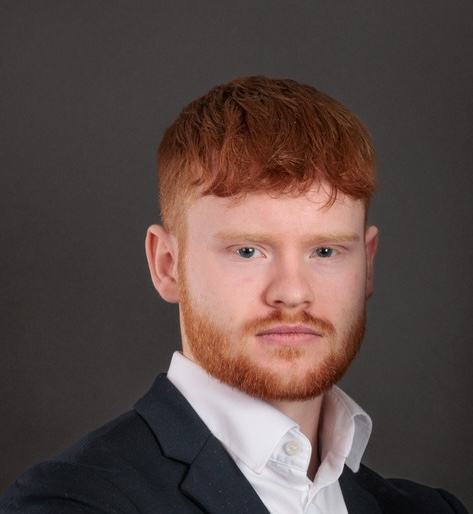
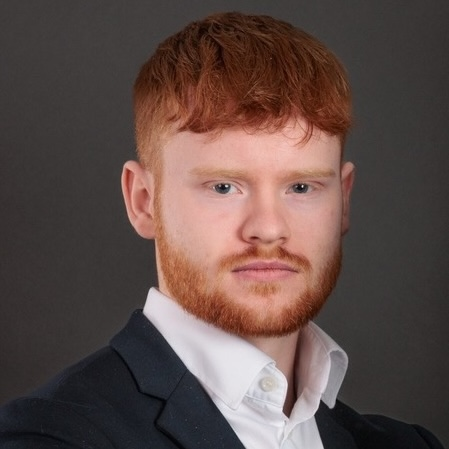
added very cool photo

diff --git a/src/app/sections/HeroSection.tsx b/src/app/sections/HeroSection.tsx
@@ -5,8 +5,10 @@ export default function HeroSection() {
     <section id="section1" className="relative snap-start h-[90%] w-full custom-mobile-gradient md:custom-gradient z-0 overflow-hidden">
       <div className="container mx-auto flex flex-col md:flex-row items-center justify-center md:px-16 h-full px-8">
         {/* Text Section */}
-        <div className="w-full md:w-2/5 text-left mt-[14em] px-[15vw] md:p-0">
-          <h1 className="text-[4.4em] font-bold text-[#ccf381] mb-4 leading-none">Hi, I'm<br />Bjarmi</h1>
+        <div className="w-full md:w-2/5 text-left mt-[14em] md:mt-0 px-[15vw] md:p-0">
+          <h1 className="text-[4.4em] font-bold text-[#ccf381] mb-4 leading-none">
+            Hi, I'm<br />Bjarmi
+          </h1>
           <p className="text-lg text-white max-w-[20em] md:max-w-fit">
           A passionate software developer crafting thoughtful, high-quality solutions. Let's create something remarkable together.
           </p>
@@ -17,11 +19,11 @@ export default function HeroSection() {
           <div className="relative z-10">
             <div className="w-52 h-52 md:w-72 md:h-72 border border-white">
               <Image
-                src="/images/placeholder_avatar.png"
+                src="/images/jakkaföt.jpg"
                 alt="My Photo"
                 width={288}
                 height={288}
-                className="object-cover mt-[-12px] ml-[-12px]"
+                className="object-contain mt-[-12px] ml-[-12px]"
                 />
             </div>
           </div>
